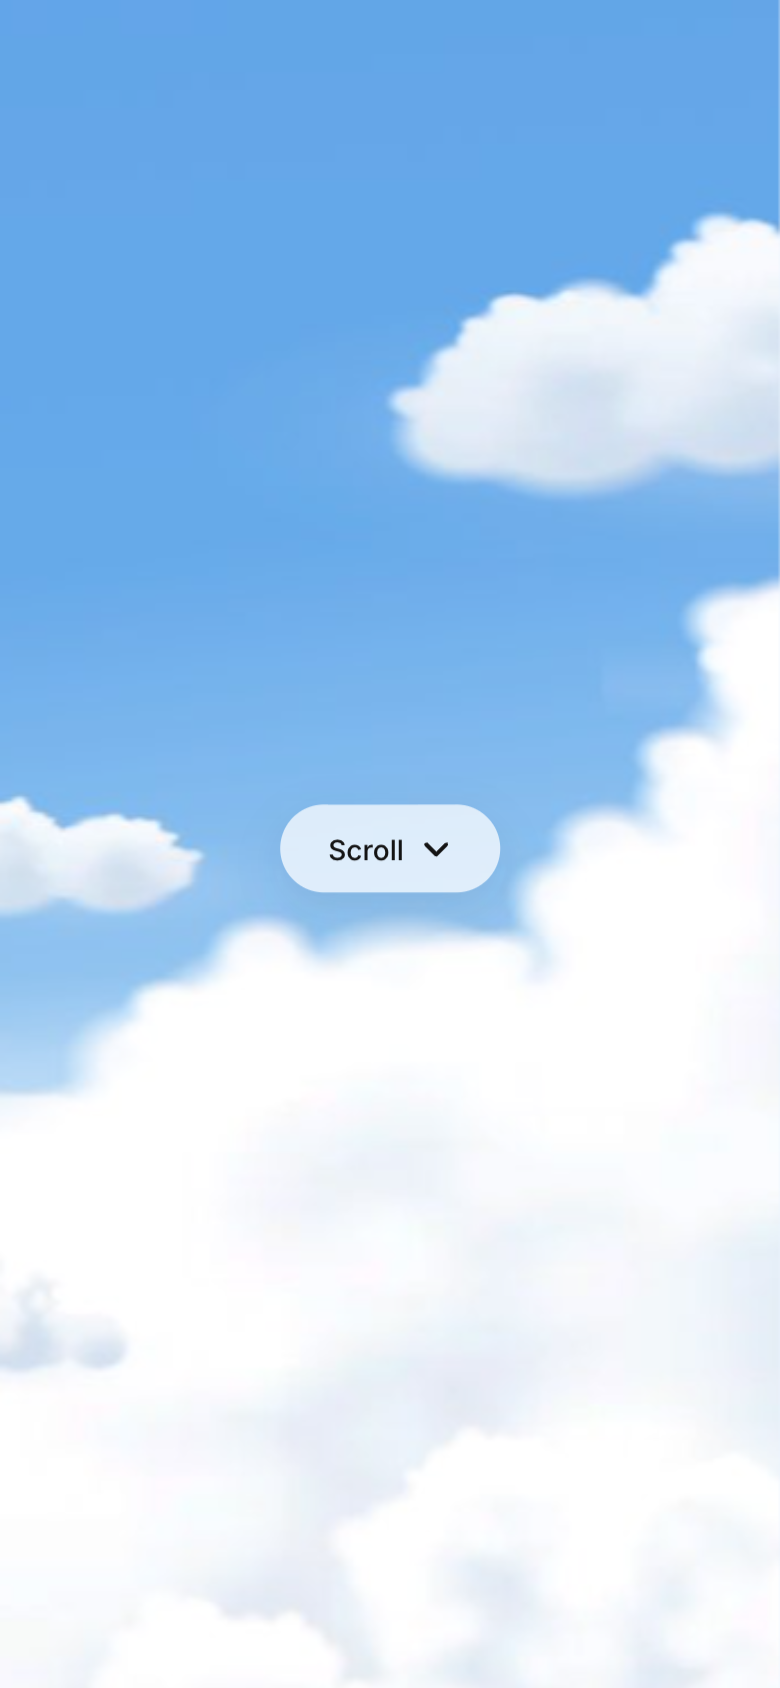
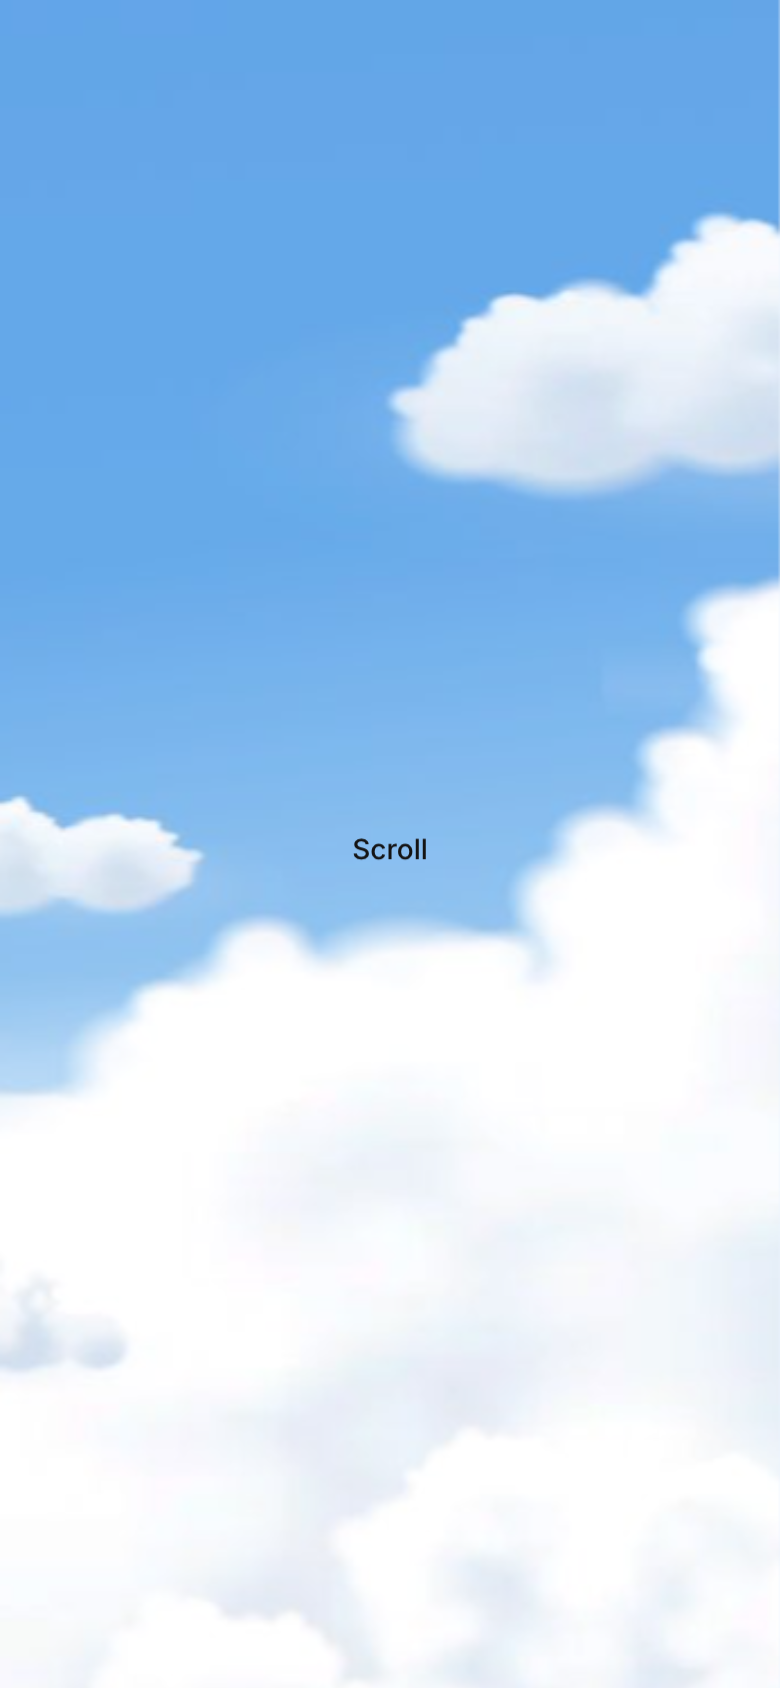
Scroll label: plain text, no background or chevron

Changed region(s): [[0.3385, 0.4621, 0.6462, 0.5545]]

diff --git a/src/styles/sections/intro.css b/src/styles/sections/intro.css
@@ -52,7 +52,7 @@
 }
 .is-past-intro .skip-intro { visibility: hidden; }
 
-/* Scroll label: a small pill. Default spot is the bottom of the stage
+/* Scroll label: plain text. Default spot is the bottom of the stage
    (reduced motion and no JS, where the text fills the middle). */
 .intro__hint {
   position: absolute;
@@ -70,14 +70,9 @@
 .intro__hint-inner {
   display: inline-flex;
   align-items: center;
-  gap: var(--space-2);
   min-height: var(--size-touch-target);
   padding: var(--space-2) var(--space-5);
-  background: var(--color-label-bg);
-  border-radius: var(--radius-chip);
-  box-shadow: var(--shadow-card);
 }
-.intro__hint svg { width: var(--size-hint-icon); height: var(--size-hint-icon); fill: none; stroke: currentColor; stroke-width: var(--size-stroke); stroke-linecap: round; stroke-linejoin: round; }
 
 @keyframes intro-fade-in { from { opacity: 0; } to { opacity: 1; } }
 @keyframes intro-part-in {

diff --git a/src/styles/tokens.css b/src/styles/tokens.css
@@ -15,7 +15,6 @@
   --color-cta-text: #141414;
   --color-focus-ring: #141414;
   --color-intro-text: #141414;      /* text on the sky; checked for AA against the scene */
-  --color-label-bg: rgba(255, 255, 255, 0.72); /* Scroll label pill over the sky */
 
   /* Type scale (fluid between phone and desktop) */
   --text-display: clamp(3.5rem, 1rem + 11vw, 12rem);     /* intro parts */
@@ -79,7 +78,6 @@
   --z-skip: 20;
 
   /* Sizes */
-  --size-hint-icon: 16px;
   --shift-hint-float: 6px;                 /* how far the Scroll label bobs */
   --size-stroke: 2px;
   --shift-button-hover: -1px;              /* button lifts a hair on hover */

diff --git a/index.html b/index.html
@@ -42,7 +42,6 @@
           <a class="intro__hint" id="intro-hint" href="#hero">
             <span class="intro__hint-inner">
               Scroll
-              <svg viewBox="0 0 16 16" aria-hidden="true" focusable="false"><path d="M3 6l5 5 5-5" /></svg>
             </span>
           </a>
         </div>

diff --git a/design/decisions.md b/design/decisions.md
@@ -68,3 +68,4 @@
 - The label replaces the bottom scroll hint. Clicking it now scrolls a little (starting part 1) instead of jumping to the hero. Skip intro still jumps to the hero.
 - Lines play in order with a minimum time on screen: reveal (1.05 s) plus a 0.7 s hold. Scroll is not locked (chosen over a scroll lock for accessibility), so a hard fling past the whole intro can still miss the last lines.
 - New tokens: --color-label-bg, --size-hint-icon, --shift-hint-float, --duration-hint-float, --duration-part-hold. Removed the mouse and swipe icon tokens.
+- Scroll label is now plain text: no pill background, shadow or chevron. Removed tokens --color-label-bg and --size-hint-icon. Contrast relies on #141414 over the sky and clouds (about 6.6 or better on the sky, higher on clouds).
